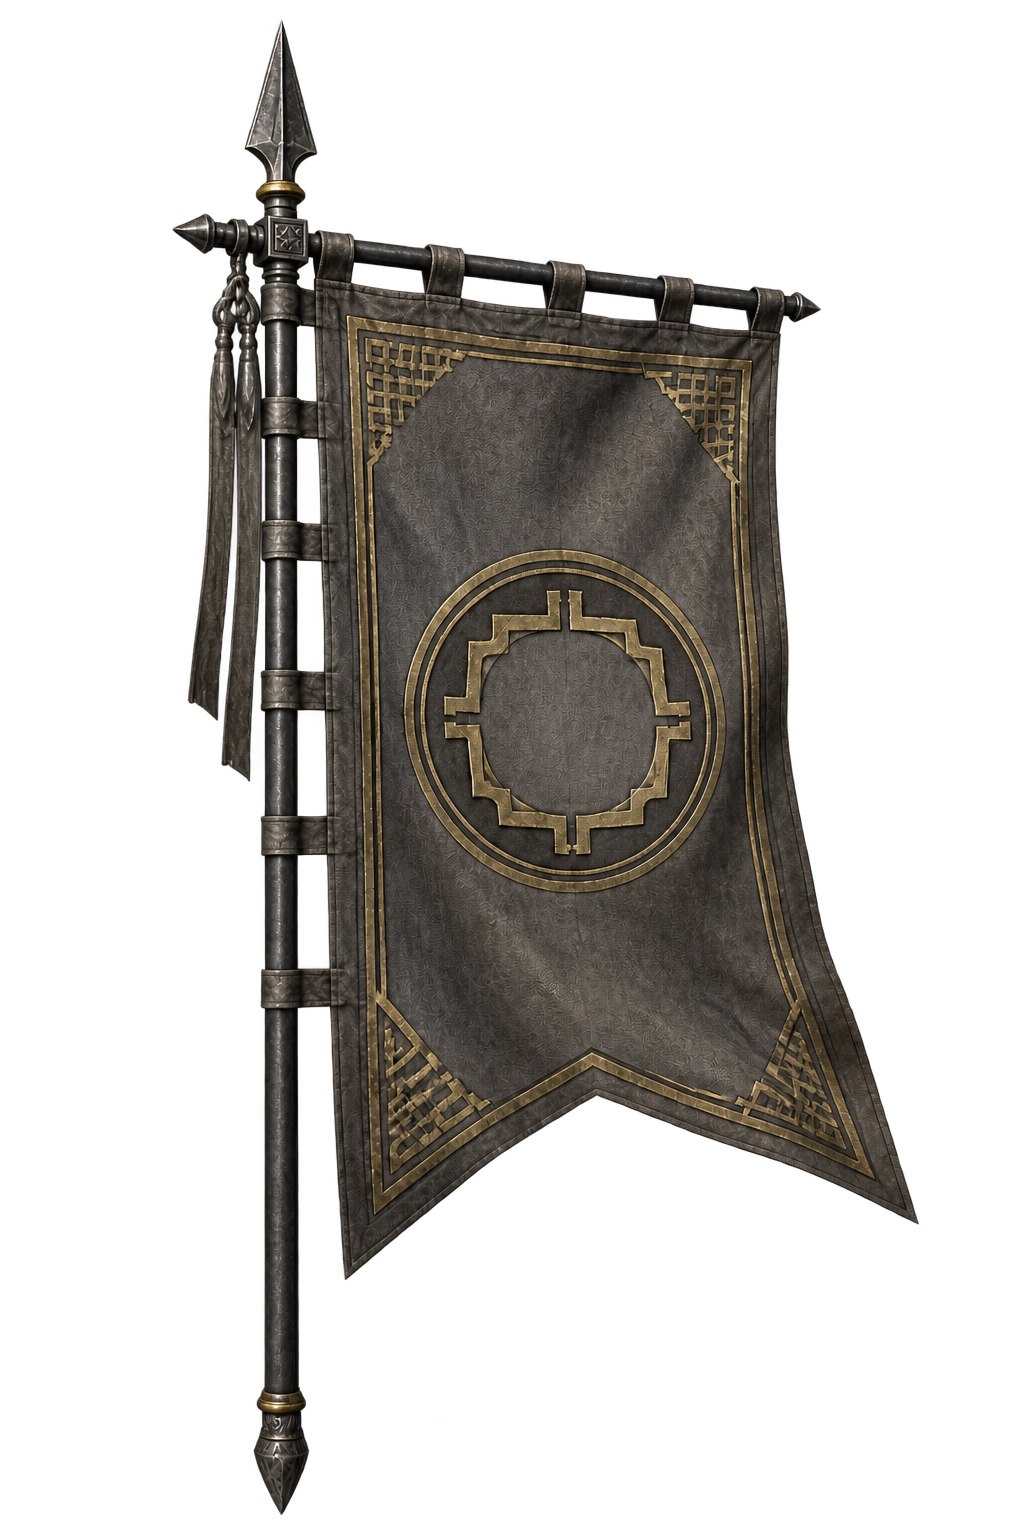
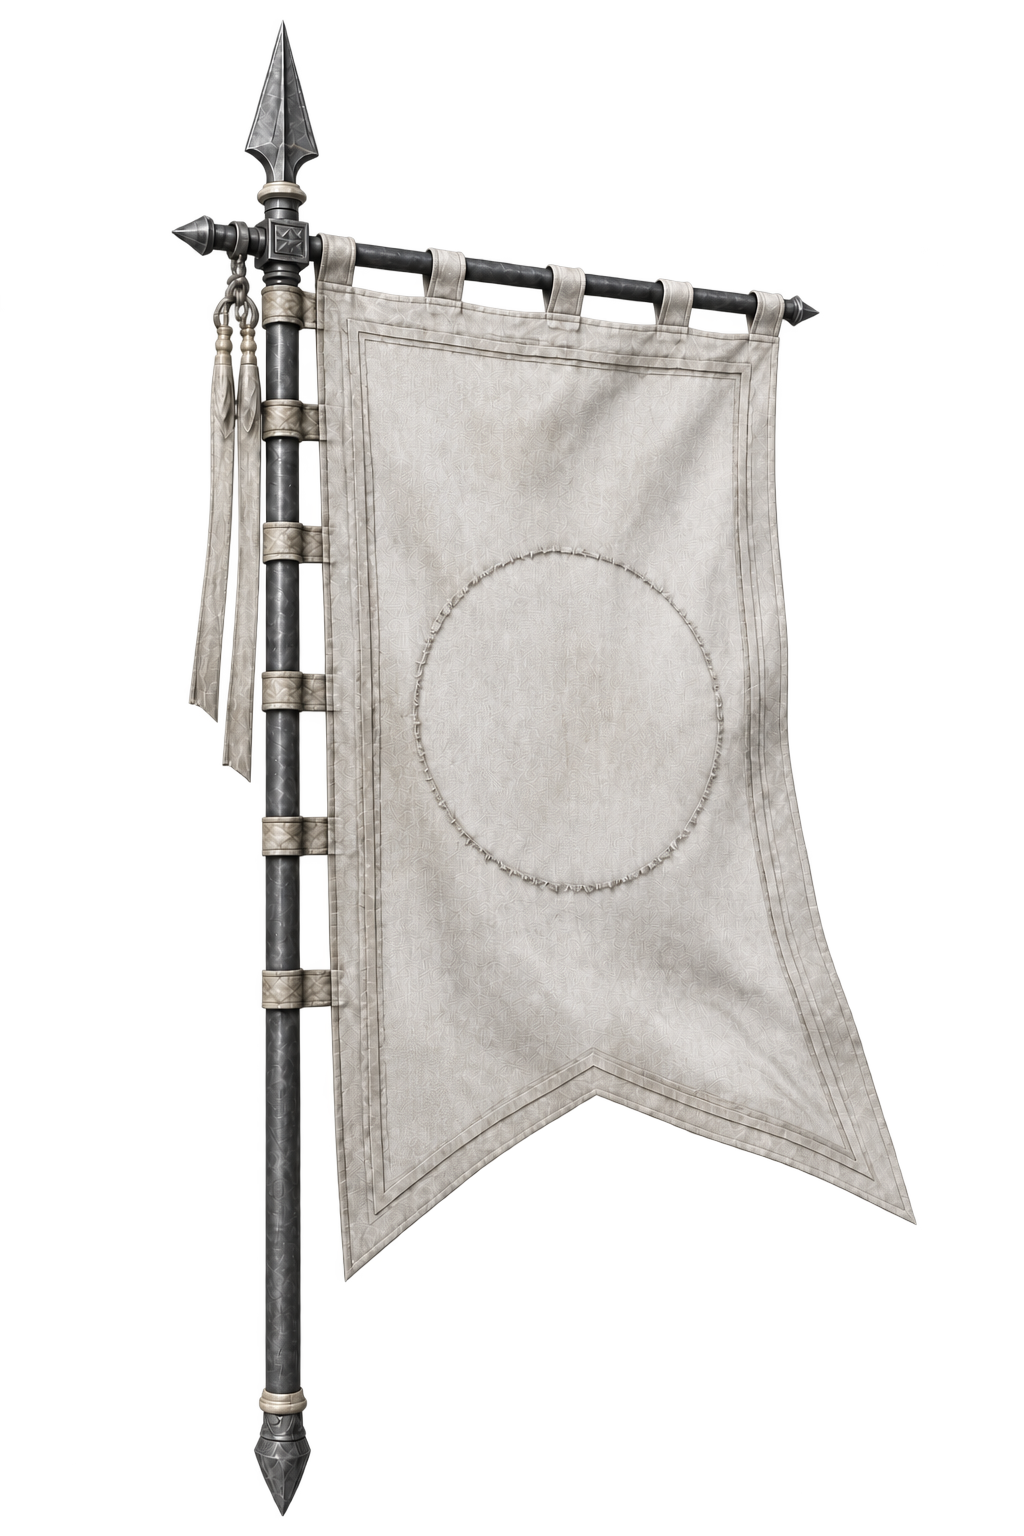
feat: 强化中立旗帜阵营区分

diff --git a/assets/art/flags/terracotta_warriors/README.md b/assets/art/flags/terracotta_warriors/README.md
@@ -4,7 +4,7 @@
 
 | 文件 | 状态 | 设计口径 |
 |---|---|---|
-| `neutral_flag.png` | 中立 | 灰黑织物、暗铁旗杆、少量旧金目标强调；无文字 |
+| `neutral_flag.png` | 中立 | 高明度灰白旧布、素铁旗杆、浅色缝线与空白圆形布章；无文字、无金边 |
 | `black_flag_captured.png` | 黑方占领 | 深墨绿青铜、凹面铜绿、旧金边；中央单字篆书风格“秦” |
 | `red_flag_captured.png` | 红方占领 | 银白钨钢、蓝灰反射、暗朱流苏；中央单字篆书风格“秦” |
 
@@ -14,12 +14,13 @@
 - 工具：Codex 内置 `imagegen`
 - 用例：`stylized-concept`、`precise-object-edit`、`text-localization`、`background-extraction`
 - 风格参考：`assets/art/pieces/terracotta_warriors/black_infantry_idle.png`、`assets/art/pieces/terracotta_warriors/red_infantry_idle.png`
-- 生成口径：先生成统一中立母版，再仅替换两方材质；两方占领态中央各加入一次准确文字“秦”（U+79E6）；最后单独提取真实 Alpha。
+- 生成口径：先生成统一旗帜结构，再派生两方材质；两方占领态中央各加入一次准确文字“秦”（U+79E6）；中立态后续提高整体明度、改为灰白粗布并简化装饰，以避免与墨绿青铜旗混淆；最后单独提取真实 Alpha。
 - 共同约束：单体完整入框、固定脚底线、无场景/阴影/水印、无额外文字、保留透明安全边距。
 - 人工修改：未进行像素级重绘；只做文件命名、Alpha/尺寸审计与项目归档。
 
 ## 使用与验收限制
 
 - 三张图已经通过 RGBA、四角透明、非透明内容包围盒检查；Godot 导入时应开启 mipmap、`fix_alpha_border` 与 VRAM Compression，并将运行时长边限制为不高于 `768px`。
+- 中立旗主体平均感知明度约为 `172`，墨绿青铜旗约为 `52`（0～255），远距灰度辨识不再依赖色相。
 - 当前“秦”字为生成式篆书风格样片，字义可读但不是经过字源校对的正式秦小篆矢量母版。若进入最终商用资产，必须以授权明确、经人工校对的矢量字形替换。
 - 生成式输出的最终发行使用权需由项目所有者按所用账户条款完成资产合规复核。
